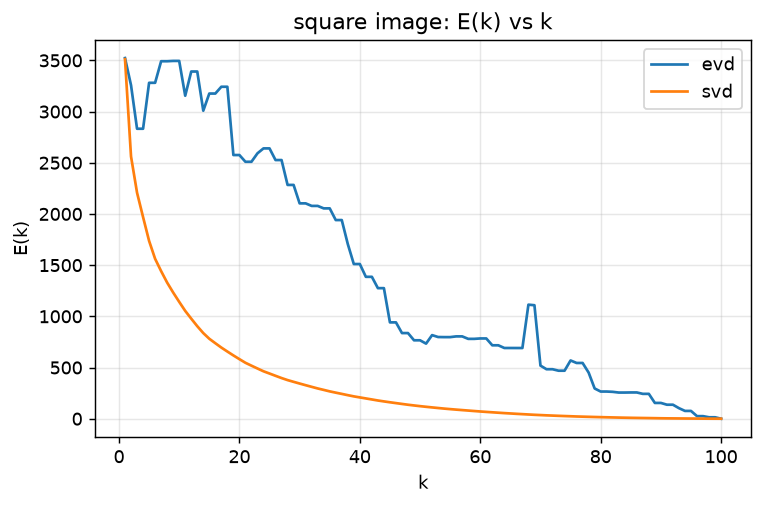
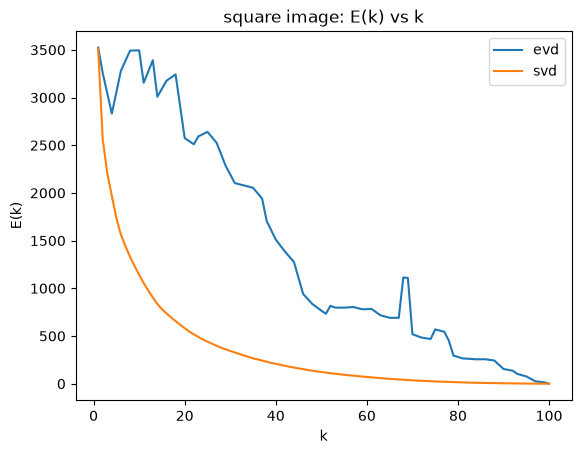
found root cause of image jaggering in evd for k=20

diff --git a/docs/submissions/lab2/report.tex b/docs/submissions/lab2/report.tex
@@ -4,6 +4,10 @@
 \usepackage{amsmath}
 \usepackage{booktabs}
 \usepackage{float}
+\usepackage{xcolor}
+
+% placeholders for text still to be written - delete the \todo once filled in
+\newcommand{\todo}[1]{\textcolor{red}{\textbf{[WRITE HERE:} \textit{#1}\textbf{]}}}
 
 \title{}
 \date{}
@@ -162,6 +166,64 @@ instead. In the code, this is handled by not splitting conjugate pairs
 across the $k$ boundary when truncating, and then stripping out the
 imaginary part and keeping only the real part before the result becomes a
 displayable image.
+
+\subsection*{A Deep look into EVD at $k=20$}
+
+\[
+A \;=\; \sum_{i=1}^{100} \lambda_i \, q_i r_i ,
+\qquad
+\text{layer size} \;=\; \lVert \lambda_i q_i r_i \rVert_F \;=\; |\lambda_i| \cdot \lVert q_i \rVert \cdot \lVert r_i \rVert
+\]
+
+where, for each $i$,
+\begin{itemize}
+\itemsep0em
+\item $\lambda_i$ is the $i$-th eigenvalue of $A$,
+\item $q_i$ is the $i$-th column of $Q$, i.e. the eigenvector for $\lambda_i$,
+\item $r_i$ is the $i$-th row of $Q^{-1}$,
+\item $\mathrm{gap}_i = \min_{j \neq i} |\lambda_i - \lambda_j|$ is the straight-line
+      distance in the complex plane from $\lambda_i$ to the nearest other eigenvalue.
+      For a conjugate pair $a \pm bi$ the two members are $2|b|$ apart, so the gap is
+      set by the size of the imaginary part.
+\end{itemize}
+
+\begin{table}[H]
+\centering
+\small
+\setlength{\tabcolsep}{4pt}
+\begin{tabular}{clccccc}
+\toprule
+$i$ & \multicolumn{1}{c}{$\lambda_i$} & $|\lambda_i|$ & $\lVert q_i \rVert$ & $\lVert r_i \rVert$ & $\mathrm{gap}_i$ & layer size \\
+\midrule
+0  & 17299.45          & 17299.5 & 1.0 & 1.0  & 16990.1 & 17685 \\
+1  & -976.95           & 977.0   & 1.0 & 3.4  & 538.3   & 3293  \\
+2  & -476.72 + 198.85i & 516.5   & 1.0 & 4.1  & 336.0   & 2138  \\
+3  & -476.72 - 198.85i & 516.5   & 1.0 & 4.1  & 336.0   & 2138  \\
+4  & 241.92 + 316.27i  & 398.2   & 1.0 & 4.7  & 238.9   & 1886  \\
+5  & 241.92 - 316.27i  & 398.2   & 1.0 & 4.7  & 238.9   & 1886  \\
+6  & 309.62 + 87.19i   & 321.7   & 1.0 & 10.0 & 154.2   & 3212  \\
+7  & 309.62 - 87.19i   & 321.7   & 1.0 & 10.0 & 154.2   & 3212  \\
+8  & -66.15 + 225.62i  & 235.1   & 1.0 & 5.3  & 135.1   & 1256  \\
+9  & -66.15 - 225.62i  & 235.1   & 1.0 & 5.3  & 135.1   & 1256  \\
+10 & 182.44            & 182.4   & 1.0 & 10.1 & 66.6    & 1851  \\
+11 & -171.43 - 58.55i  & 181.2   & 1.0 & 10.3 & 58.8    & 1858  \\
+12 & -171.43 + 58.55i  & 181.2   & 1.0 & 10.3 & 58.8    & 1858  \\
+13 & -177.14           & 177.1   & 1.0 & 8.5  & 58.8    & 1503  \\
+14 & 97.03 + 89.13i    & 131.8   & 1.0 & 10.2 & 60.8    & 1348  \\
+15 & 97.03 - 89.13i    & 131.8   & 1.0 & 10.2 & 60.8    & 1348  \\
+16 & 32.23 + 117.24i   & 121.6   & 1.0 & 12.4 & 28.5    & 1513  \\
+17 & 32.23 - 117.24i   & 121.6   & 1.0 & 12.4 & 28.5    & 1513  \\
+\textbf{18} & \textbf{115.92 + 3.91i} & \textbf{116.0} & \textbf{1.0} & \textbf{88.8} & \textbf{7.8} & \textbf{10297} \\
+\textbf{19} & \textbf{115.92 - 3.91i} & \textbf{116.0} & \textbf{1.0} & \textbf{88.8} & \textbf{7.8} & \textbf{10297} \\
+\midrule
+20 & -26.14 + 96.61i   & 100.1   & 1.0 & 10.3 & 26.2    & 1027  \\
+21 & -26.14 - 96.61i   & 100.1   & 1.0 & 10.3 & 26.2    & 1027  \\
+\bottomrule
+\end{tabular}
+\caption{The 20 EVD layers kept at $k=20$}
+\end{table}
+
+Each term in the summation is just an outer-product between columns of $Q$ and rows of $Q^{-1}$ and scaled by the corresponding eigen value. If you look at the eigen values at the $18^{th}$ and $19^{th}$ you could see they are very close to each other as the imaginary part is very low and they have huge layer size. (i.e.) 10297 the second largest after our largest eigen value's layer size. So, we are essentially not preserving the balance effect after truncating to just k values.
 
 \subsection*{Question 2: Rectangular image (SVD only)}
 

diff --git a/lab2.py b/lab2.py
@@ -1,6 +1,6 @@
 from src import imaging, linalg, plotting
 
-ks = [5, 20, 50]
+ks = [5, 25, 50]
 
 # Task 1: square image - EVD + SVD
 img = imaging.load_image("docs/assignments/lab-2-img/cat_02_square.png")
@@ -19,9 +19,11 @@ for k in ks:
 
 n = len(eigenvalues)
 all_ks = list(range(1, n + 1))
-errors_evd = [linalg.frobenius_norm(A - linalg.reconstruct_evd(eigenvalues, Q, k)) for k in all_ks]
+# conjugate pairs are kept whole, so only these ranks are actually reachable
+ks_evd = sorted({linalg.effective_k(eigenvalues, k) for k in all_ks})
+errors_evd = [linalg.frobenius_norm(A - linalg.reconstruct_evd(eigenvalues, Q, k)) for k in ks_evd]
 errors_svd = [linalg.frobenius_norm(A - linalg.reconstruct_svd(U, s, Vt, k)) for k in all_ks]
-plotting.error_curve(all_ks, {"evd": errors_evd, "svd": errors_svd}, title="square image: E(k) vs k")
+plotting.error_curve({"evd": (ks_evd, errors_evd), "svd": (all_ks, errors_svd)}, title="square image: E(k) vs k")
 
 # Task 2: rectangular image - SVD only
 img2 = imaging.load_image("docs/assignments/lab-2-img/cat_02_rectangle.png")
@@ -38,4 +40,4 @@ for k in ks:
 n2 = len(s2)
 all_ks2 = list(range(1, n2 + 1))
 errors2 = [linalg.frobenius_norm(A2 - linalg.reconstruct_svd(U2, s2, Vt2, k)) for k in all_ks2]
-plotting.error_curve(all_ks2, {"svd": errors2}, title="rectangle image: E(k) vs k")
+plotting.error_curve({"svd": (all_ks2, errors2)}, title="rectangle image: E(k) vs k")

diff --git a/test.py b/test.py
@@ -1,0 +1,36 @@
+from src import linalg, imaging, plotting
+import numpy as np
+import sys
+
+img = imaging.load_image("docs/assignments/lab-2-img/cat_02_square.png") 
+# img = imaging.resize(img, (100, 100))
+A = imaging.to_grayscale(img) / 255.0
+
+print(A.min(), A.max())
+
+# sys.exit(0)
+k = 5
+
+eigenvalues, Q = linalg.evd(A)
+print(eigenvalues, len(list(eigenvalues)))
+
+a_k_evd = linalg.reconstruct_evd(eigenvalues, Q, k)
+reconstructed_eigen_values, reconstructed_Q = linalg.evd(a_k_evd)
+
+count = 0
+for i in a_k_evd.flatten():
+    if abs(np.conj(i)) > 1e-8: count += 1
+
+print(f"{count}/{a_k_evd.flatten().shape[0]}")
+    
+
+# print(reconstructed_eigen_values, len(list(reconstructed_eigen_values)))
+plotting.show_reconstruction(A, a_k_evd, title=f"square EVD, k={k}")
+
+n = len(eigenvalues)
+
+if 0 < k < n and np.isclose(eigenvalues[k], np.conj(eigenvalues[k - 1])):
+    k += 1
+
+print()
+print(reconstructed_eigen_values[:k])

diff --git a/src/linalg.py b/src/linalg.py
@@ -90,13 +90,17 @@ def evd(A):
     order = np.argsort(np.abs(eigenvalues))[::-1]
     return eigenvalues[order], Q[:, order]
 
+# rank actually used after keeping conjugate pairs together
+def effective_k(eigenvalues, k):
+    n = len(eigenvalues)
+    if 0 < k < n and np.isclose(eigenvalues[k], np.conj(eigenvalues[k - 1])):
+        k += 1
+    return k
+
 # rank-k reconstruction A_k = Q * lambda_k * Q^-1
 def reconstruct_evd(eigenvalues, Q, k):
     n = len(eigenvalues)
-
-    # keep conjugate pairs together
-    if 0 < k < n and np.isclose(eigenvalues[k], np.conj(eigenvalues[k - 1])):
-        k += 1
+    k = effective_k(eigenvalues, k)
 
     lambda_k = np.zeros(n, dtype=complex)
     lambda_k[:k] = eigenvalues[:k]
@@ -124,5 +128,3 @@ def reconstruct_svd(U, singular_values, Vt, k):
 # frobenius norm: sqrt of sum of squares of every entry
 def frobenius_norm(A):
     return np.sqrt(np.sum(A ** 2))
-
-

diff --git a/src/plotting.py b/src/plotting.py
@@ -27,10 +27,10 @@ def show_reconstruction(original, reconstructed, title=""):
     fig.suptitle(title)
     plt.show()
 
-# plot E(k) vs k, series = {label: errors}
-def error_curve(ks, series, title=""):
+# plot E(k) vs k, series = {label: (ks, errors)}
+def error_curve(series, title=""):
     plt.figure()
-    for label, errors in series.items():
+    for label, (ks, errors) in series.items():
         plt.plot(ks, errors, label=label)
     plt.xlabel("k")
     plt.ylabel("E(k)")

diff --git a/docs/submissions/lab2/questions.md b/docs/submissions/lab2/questions.md
@@ -117,3 +117,47 @@ If it's a square matrix and symmetric already just go with EVD because it's less
     anything else)?
 
 Complex eigenvalues really took it's time to land, We pondered a lot just to end up getting the justification from the quadratic roots formula.
+
+
+## Follow-up: the k=20 EVD artifact (added after review)
+
+These four cover the ringing/streaking in the k=20 EVD figure. Answer in your
+own words — the supporting numbers are given so you don't have to re-derive them.
+
+16. Your professor suggested the k=20 distortion came from mishandled complex
+    conjugates. Explain, in your own words, why that turned out NOT to be the
+    cause. Numbers you can cite: all 82 complex eigenvalues sit adjacent to
+    their conjugate partner; the pair at index 18/19 means the cut at k=20
+    doesn't split any pair at all; the imaginary part discarded by np.real()
+    is about 2.5e-11, against pixel values of ~255.
+
+
+17. Explain what the real cause is. The chain of reasoning:
+    - A is not symmetric, so its eigenvectors are not perpendicular.
+    - Eigenvalues 18 and 19 are 115.9166 +/- 3.9116j — the imaginary part is
+      only 3% of the real part, so this is nearly a *repeated* eigenvalue.
+    - Their two eigenvectors are therefore nearly parallel: |cos(angle)| =
+      0.9934, roughly 0.6 degrees apart.
+    - Rows 18 and 19 of Q^-1 have norm 88.8, against a median of 10.3.
+      (Exact identity: ||r_i|| = 1 / distance from q_i to the span of the
+      other eigenvectors. That distance is 0.0113 here.)
+    - So those two rank-1 layers each have size 10,297 — the 2nd and 3rd
+      largest of all 100 — even though they rank only 19th by |lambda|.
+
+
+18. Explain why oversized layers make truncation dangerous. Numbers:
+    - Size of A itself: 18,013.
+    - Sum of all 100 EVD layer sizes: 106,858 (six times larger).
+    - Dropping layers 20-99 discards 35,509 worth of material and leaves
+      2,575 of error.
+    - Same truncation under SVD discards only 3,501 and leaves 582.
+    Also worth stating: this is why E(k) for EVD is non-monotonic — it gets
+    *worse* at 14 of the 99 steps — while SVD's E(k) strictly decreases,
+    which is Eckart-Young.
+
+
+19. (Optional, one line) Note that rescaling to 100x100 is not the cause and
+    not the cure: at the full 512x512 the EVD/SVD error ratio is still ~4.1.
+    Rescaling was only for speed. Also, for any square n x n matrix, EVD gives
+    exactly n eigenvalues and SVD exactly n singular values, so E(k) for both
+    can always be plotted on the same axes.
